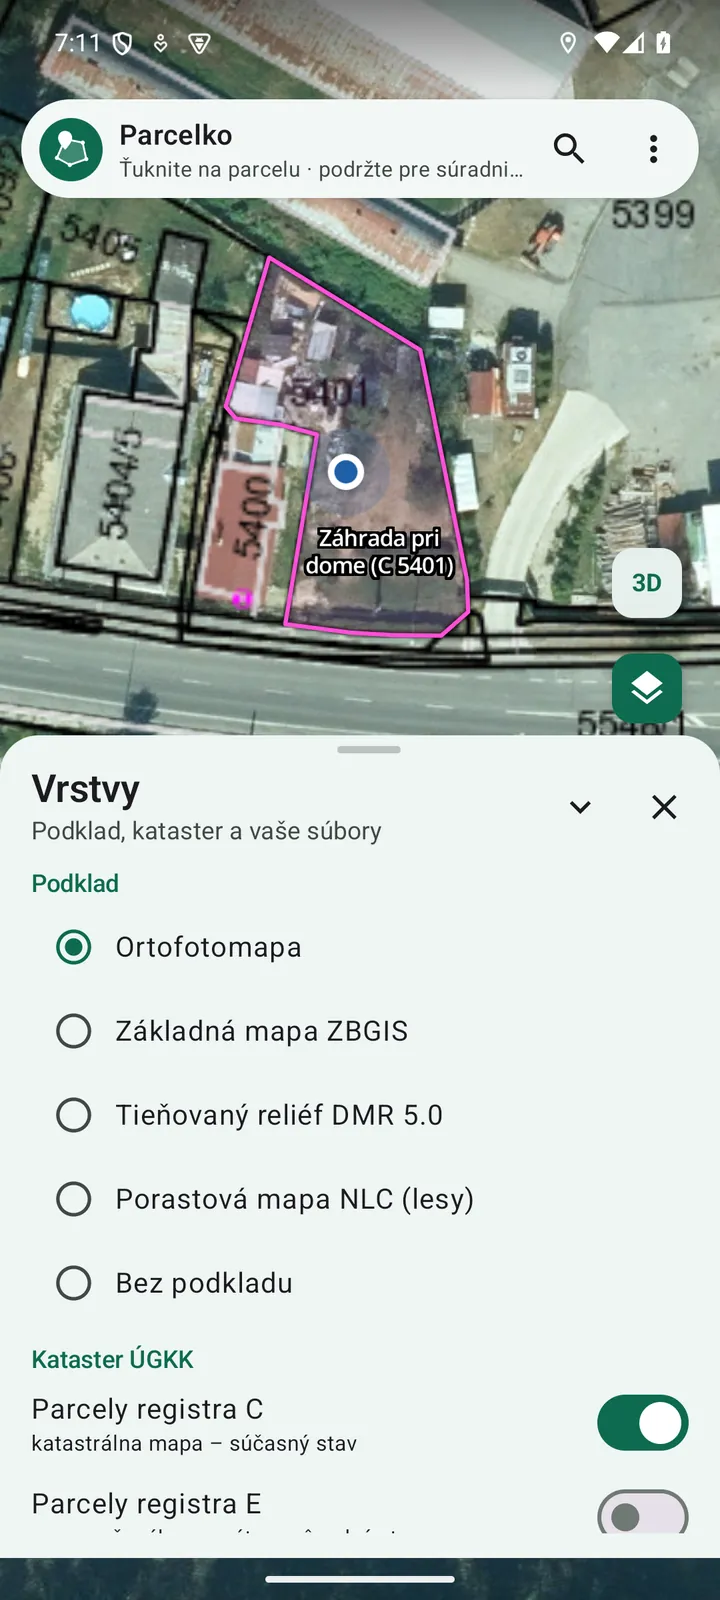
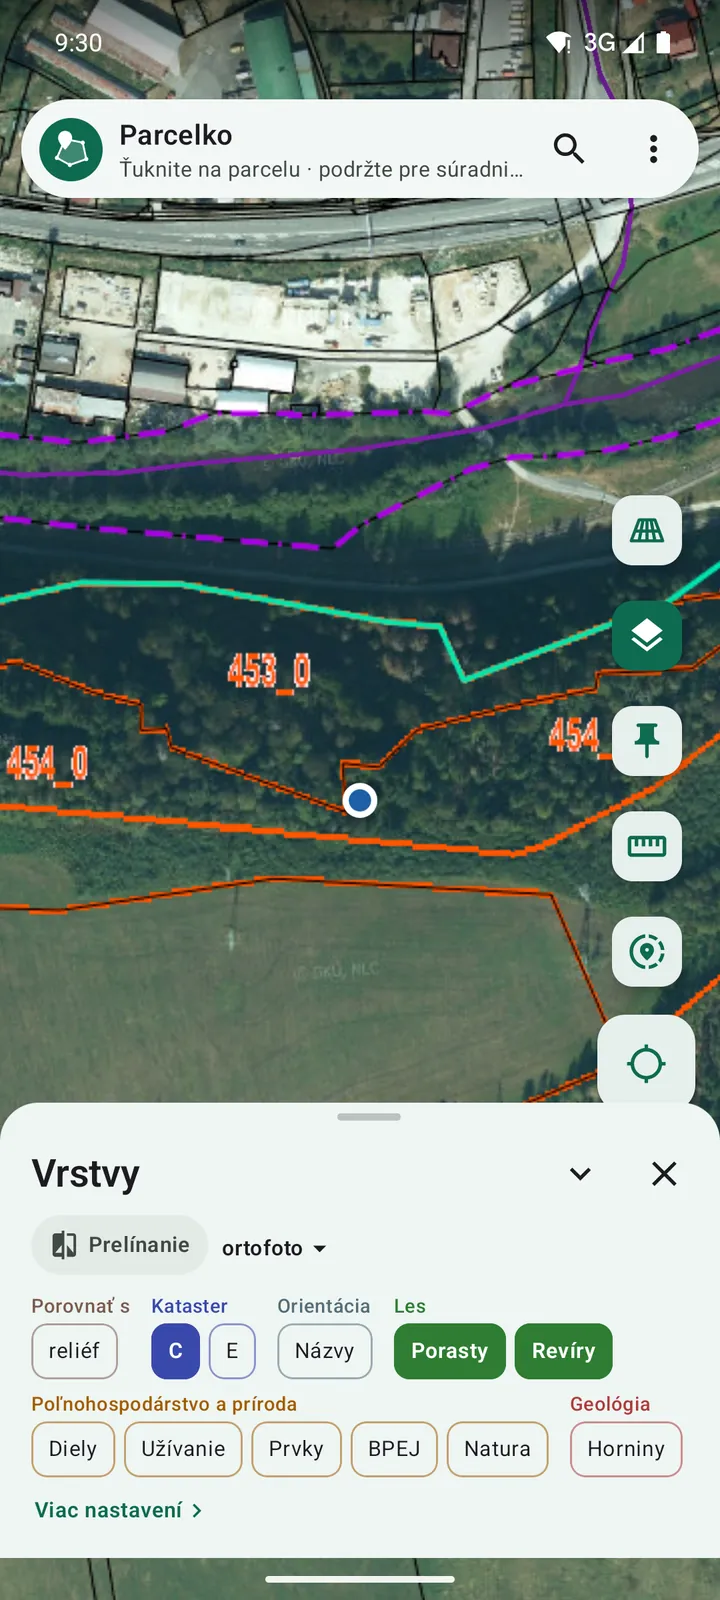
Parcelko 0.5.8 na webe: zdieľanie polohy, ovládanie mapy na jeden pohľad, prelínanie a mapy zo súborov, geológia; nové snímky; lišta v jednom riadku aj na menšom displeji

diff --git a/index.html b/index.html
@@ -76,13 +76,15 @@
    "url": "https://parcelko.github.io/",
    "inLanguage": "sk",
    "operatingSystem": "Android 8 a novší",
-   "softwareVersion": "0.5.7",
+   "softwareVersion": "0.5.8",
    "applicationCategory": "UtilitiesApplication",
    "applicationSubCategory": "Kataster nehnuteľností, mapy a meranie pozemkov",
    "downloadUrl": "https://github.com/Parcelko/parcelko.github.io/releases/latest/download/Parcelko.apk",
    "image": "https://parcelko.github.io/obrazky/nahlad-zdielanie.jpg",
    "screenshot": [
     "https://parcelko.github.io/obrazky/app-hladanie.webp",
+    "https://parcelko.github.io/obrazky/app-zdielanie.webp",
+    "https://parcelko.github.io/obrazky/app-ovladanie.webp",
     "https://parcelko.github.io/obrazky/app-rozmery.webp",
     "https://parcelko.github.io/obrazky/app-porastova.webp",
     "https://parcelko.github.io/obrazky/app-parcela-e-tmava.webp",
@@ -97,8 +99,11 @@
     "Vlastníci z listu vlastníctva (výpis z LV)",
     "Meranie plochy, vzdialenosti a meranie chôdzou s GPS",
     "Lesné porasty a porastová mapa NLC",
+    "Geologická mapa – horniny, podložie a radónové riziko v mieste ťuknutia",
+    "Prelínanie dvoch máp posuvníkom a porovnanie s treťou mapou",
     "Pešia navigácia k parcele a k bodu s upozornením pri odchode z pozemku",
     "Obchôdzka hranice po lomových bodoch",
+    "Zdieľanie polohy s ďalšími používateľmi Parcelka – šifrované, so stopou a navigáciou k nim",
     "Zadanie súradníc a zoznamu bodov z geometrického plánu, navigácia na ne",
     "Mapa pre klienta v mierke ako PDF alebo obrázok (A4, A3)",
     "Offline mapy bez signálu",
@@ -158,7 +163,7 @@
      "name": "Čo všetko zistím z jedného miesta na mape?",
      "acceptedAnswer": {
       "@type": "Answer",
-      "text": "Ťuknite kamkoľvek alebo sa postavte na miesto v teréne – Parcelko ukáže v jednom rade parcelu C aj E, a pri zapnutých vrstvách aj BPEJ, kultúrny diel, hranicu užívania, krajinný prvok, poľovný revír a lesný porast. Ťuknutím vyberiete, čo sa zvýrazní na mape; pri parcele máte rozmery, výmeru a vlastníkov, pri ostatných ich údaje."
+      "text": "Ťuknite kamkoľvek alebo sa postavte na miesto v teréne – Parcelko ukáže v jednom rade parcelu C aj E, a pri zapnutých vrstvách aj BPEJ, kultúrny diel, hranicu užívania, krajinný prvok, poľovný revír, lesný porast a horniny z geologickej mapy. Ťuknutím vyberiete, čo sa zvýrazní na mape; pri parcele máte rozmery, výmeru a vlastníkov, pri ostatných ich údaje."
      }
     },
     {
@@ -243,6 +248,14 @@
     },
     {
      "@type": "Question",
+     "name": "Môžem zdieľať polohu s kolegom, hájnikom alebo rodinou?",
+     "acceptedAnswer": {
+      "@type": "Answer",
+      "text": "Áno, s každým, kto má Parcelko. Pošlete mu pozvánku odkazom (WhatsApp, SMS…), on ju prijme a vy potvrdíte. Zdieľanie zapínate vy na zvolený čas (30 minút až 8 hodín), kedykoľvek ho pozastavíte alebo zastavíte. Druhý vás vidí na mape medzi parcelami a porastmi – so stopou, časom, presnosťou GPS a batériou – a vie k vám navigovať. Poloha je šifrovaná priamo v mobile, server ani my ju neprečítame. Obe strany potrebujú internet."
+     }
+    },
+    {
+     "@type": "Question",
      "name": "Aké súradnice a formáty vie aplikácia exportovať?",
      "acceptedAnswer": {
       "@type": "Answer",
@@ -286,7 +299,7 @@
      "name": "Ukladáte moje údaje?",
      "acceptedAnswer": {
       "@type": "Answer",
-      "text": "Údaje, ktoré v aplikácii vytvoríte – parcely, merania, fotky, výpisy z LV – sú len vo vašom mobile; aplikácia ich nikam neposiela. Evidujeme len údaje potrebné na licenciu (meno, kód zariadenia, platnosť) a pri službe Portfólio pozemkov na mieru podklady na jeho prípravu. Podrobnosti v zásadách ochrany osobných údajov."
+      "text": "Údaje, ktoré v aplikácii vytvoríte – parcely, merania, fotky, výpisy z LV – sú len vo vašom mobile; aplikácia ich nikam neposiela. Ak si zapnete zdieľanie polohy, vaša poloha ide zašifrovaná len tomu, s kým ste sa spárovali – server ani my ju neprečítame. Evidujeme len údaje potrebné na licenciu (meno, kód zariadenia, platnosť) a pri službe Portfólio pozemkov na mieru podklady na jeho prípravu. Podrobnosti v zásadách ochrany osobných údajov."
      }
     }
    ]
@@ -307,6 +320,7 @@
     <a href="#z-jedneho-miesta">Jedno miesto</a>
     <a href="#funkcie">Funkcie</a>
     <a href="#les">Les a revíry</a>
+    <a href="#zdielanie">Zdieľanie</a>
     <a href="#sluzba">Služba</a>
     <a href="#cennik">Cenník</a>
     <a href="#otazky">Otázky</a>
@@ -704,8 +718,8 @@
   <h2>Všetko, čo potrebujete o pozemku, v jednom mobile</h2>
   <p class="uvod">S Parcelkom máte svoje pozemky vždy pri sebe – presne podľa katastra: katastrálna mapa a parcely registra C aj E, hľadanie
     parcely podľa čísla a katastrálneho územia, vlastníci z listu vlastníctva (výpis z LV), rozmery a výmera pozemku, súradnice
-    v S-JTSK, lesné porasty a porastová mapa NLC a offline mapy bez signálu – pre vlastníkov pozemkov, dedičov, lesníkov,
-    urbariáty aj realitných maklérov.</p>
+    v S-JTSK, lesné porasty a porastová mapa NLC, geologická mapa, zdieľanie polohy s kolegom a offline mapy bez signálu – pre
+    vlastníkov pozemkov, dedičov, lesníkov, urbariáty aj realitných maklérov.</p>
   <h3 class="skupina odhal">Nájdite a prezrite si</h3>
   <div class="mriezka funkcie">
       <article class="funkcia odhal">
@@ -731,21 +745,25 @@
       <article class="funkcia odhal">
         <span class="ikona"><svg viewBox="0 0 24 24"><path d="M9 4 3 6v14l6-2 6 2 6-2V4l-6 2-6-2Z"/><path d="M9 4v14M15 6v14"/></svg></span>
         <h3>Mapy a podklady</h3>
-        <p>Ortofoto, katastrálna mapa, mapa určeného operátu, základná mapa ZBGIS, tieňovaný reliéf a porastová mapa – prepnete jedným ťuknutím.</p>
+        <p>Ortofoto, katastrálna mapa, mapa určeného operátu, základná mapa ZBGIS, tieňovaný reliéf a porastová mapa – prepnete jedným ťuknutím.
+        Dve mapy prelínate posuvníkom (napr. ortofoto a ZBGIS) a výsledok porovnáte s treťou mapou. Načítate aj vlastné mapy zo súborov
+        (SQLite pre Locus, MBTiles) – aj do offline bez signálu.</p>
       </article>
       <article class="funkcia odhal">
         <span class="ikona"><svg viewBox="0 0 24 24"><path d="M4 4h6M4 4v6M20 4h-6M20 4v6M4 20h6M4 20v-6M20 20h-6M20 20v-6"/></svg></span>
-        <h3>Celá obrazovka a naklonenie</h3>
-        <p>Mapa cez celý displej bez ponúk, naklonený pohľad a mapa sa otvorí tam, kde ste skončili.</p>
+        <h3>Ovládanie mapy na jeden pohľad</h3>
+        <p>Všetky vrstvy v prehľadných farebných skupinách – kataster, orientácia, les, poľnohospodárstvo a príroda, geológia a vaše
+        vrstvy – a hneď vidno, čo je zapnuté. Rovnaký výber pod tlačidlom Vrstvy aj na celej obrazovke: mapa cez celý displej,
+        ovládanie vysuniete potiahnutím zdola. Naklonený pohľad a mapa sa otvorí tam, kde ste skončili.</p>
       </article>
   </div>
-  <h3 class="skupina odhal">Pôda, poľovníctvo a príroda</h3>
+  <h3 class="skupina odhal">Pôda, geológia, poľovníctvo a príroda</h3>
   <div class="mriezka funkcie">
       <article class="funkcia odhal">
         <span class="ikona"><svg viewBox="0 0 24 24"><circle cx="12" cy="10" r="3"/><path d="M12 21s-7-5.5-7-11a7 7 0 0 1 14 0c0 5.5-7 11-7 11Z"/></svg></span>
         <h3>Všetko na mieste jedným ťuknutím</h3>
         <p>Na mieste ťuknutia sa v rade ukážu voľby ako pri parcelách C a E – BPEJ, kultúrny diel, hranica užívania, krajinný prvok,
-          poľovný revír. Ťuknutím vyberiete, čo sa zvýrazní na mape; ktoré sa ukážu, určujú zapnuté vrstvy.</p>
+          poľovný revír, horniny. Ťuknutím vyberiete, čo sa zvýrazní na mape; ktoré sa ukážu, určujú zapnuté vrstvy.</p>
       </article>
       <article class="funkcia odhal">
         <span class="ikona"><svg viewBox="0 0 24 24"><path d="M3 18h18M5 18c1-4 3-6 7-6s6 2 7 6"/><path d="M12 12V5m0 0-3 3m3-3 3 3"/></svg></span>
@@ -776,6 +794,13 @@
         <h3>Natura 2000</h3>
         <p>Územia európskeho významu a chránené vtáčie územia na mape – a po ťuknutí, či pozemok leží v niektorom z nich.</p>
       </article>
+      <article class="funkcia odhal">
+        <span class="ikona"><svg viewBox="0 0 24 24"><path d="M3 20h18L15 8l-3 4-2-2z"/><path d="M6 15h12M8.5 12.5h3"/></svg></span>
+        <h3>Geológia – horniny a podložie</h3>
+        <p>Geologická mapa Slovenska 1&nbsp;:&nbsp;50&nbsp;000 (ŠGÚDŠ) a po ťuknutí zloženie hornín, geologický útvar a vek,
+          inžinierskogeologický rajón (podložie) a radónové riziko v mieste – pri stavbe, studni či kúpe pozemku. Orientačne –
+          hranice hornín sedia na desiatky metrov.</p>
+      </article>
   </div>
   <h3 class="skupina odhal">Navigácia v teréne</h3>
   <div class="mriezka funkcie">
@@ -802,6 +827,12 @@
         <h3>Súradnice z geometrického plánu</h3>
         <p>Zadajte alebo vložte súradnice v S-JTSK, JTSK03, WGS84 či UTM – aj celý zoznam bodov z geometrického plánu či
         vytyčovacieho náčrtu. Parcelko ich ukáže na mape, dovedie vás k nim bod po bode a uloží ich ako vrstvu.</p>
+      </article>
+      <article class="funkcia odhal">
+        <span class="ikona"><svg viewBox="0 0 24 24"><circle cx="8" cy="8" r="2.5"/><circle cx="16" cy="15" r="2.5"/><path d="M8 13s-4-3.4-4-6.5a4 4 0 0 1 8 0C12 9.6 8 13 8 13Z"/><path d="M10.5 18.5c2 .8 3.5.5 5.5-1"/></svg></span>
+        <h3>Zdieľanie polohy</h3>
+        <p>S kolegom, hájnikom či rodinou si zdieľate polohu: druhého vidíte na mape medzi parcelami a porastmi, so stopou,
+        a navigujete k nemu. Zapínate na čas, pozastavíte jedným ťuknutím, šifrované. <a href="#zdielanie">Viac o zdieľaní</a></p>
       </article>
   </div>
   <h3 class="skupina odhal">Merajte a počítajte</h3>
@@ -942,6 +973,28 @@
   </div>
 </section>
 
+<!-- ============================================================ zdieľanie polohy -->
+<section class="sekcia jemna" id="zdielanie">
+  <div class="dve-stlpce">
+    <div class="odhal">
+      <p class="nadtitul">Novinka · Zdieľanie polohy</p>
+      <h2>Viete, kde je kolega – priamo medzi parcelami</h2>
+      <p>V lese, na poli či pri obchôdzke pozemkov si s ďalšími používateľmi Parcelka navzájom zdieľate polohu. Druhého vidíte
+        na tej istej mape ako parcely C a E, porasty a revíry – aj s trasou, ktorou prešiel – a jedným ťuknutím vás k nemu
+        Parcelko dovedie.</p>
+      <ul class="zoznam">
+        <li>pozvánku pošlete odkazom (WhatsApp, SMS, e-mail) – spárujete sa raz, prijatie potvrdíte vy</li>
+        <li>zdieľanie zapínate vy, na 30 minút až 8 hodín; kedykoľvek ho pozastavíte – vtedy sa nič neposiela – a zase zapnete</li>
+        <li>na mape meno, stopa (dá sa vypnúť), čas poslednej polohy, presnosť GPS a batéria druhého</li>
+        <li>navigácia k človeku – cieľ sa posúva s ním</li>
+        <li>šifrované priamo v mobile – polohu nevidí server ani my; bez poplatkov navyše</li>
+      </ul>
+      <p class="poznamka">Funguje, kým majú oba mobily internet; kto sa pozerá, má Parcelko otvorené.</p>
+    </div>
+    <figure class="mobil odhal naklon-vpravo" data-snimka="zdielanie"><img src="obrazky/app-zdielanie.webp" alt="Parcelko: zdieľaná poloha hájnika so stopou v lese a jeho karta" loading="lazy" width="720" height="1600"></figure>
+  </div>
+</section>
+
 <!-- ============================================================ pre koho -->
 <!-- ============================================================ v mobile -->
 <section class="sekcia jemna" id="v-mobile">
@@ -952,7 +1005,9 @@
     <button type="button" class="galeria-sipka vlavo" aria-label="Predchádzajúce">‹</button>
     <div class="galeria" tabindex="0" aria-label="Ukážky obrazoviek aplikácie – Brezno">
       <figure class="mobil odhal" data-snimka="hladanie"><img src="obrazky/app-hladanie.webp" alt="Hľadanie parcely podľa čísla" loading="lazy" width="720" height="1600"><figcaption>Nájdete parcelu podľa čísla – aj registra E</figcaption></figure>
-      <figure class="mobil odhal" data-snimka="cela-obrazovka"><img src="obrazky/app-cela-obrazovka.webp" alt="Celá obrazovka – len mapa a ikonka" loading="lazy" width="720" height="1600"><figcaption>Celá obrazovka – len mapa a zelená ikonka</figcaption></figure>
+      <figure class="mobil odhal" data-snimka="ovladanie"><img src="obrazky/app-ovladanie.webp" alt="Celá obrazovka s ovládaním mapy – skupiny vrstiev a prelínanie máp" loading="lazy" width="720" height="1600"><figcaption>Celá obrazovka – vrstvy na jeden pohľad a prelínanie máp</figcaption></figure>
+      <figure class="mobil odhal" data-snimka="zdielanie-galeria"><img src="obrazky/app-zdielanie.webp" alt="Zdieľanie polohy – kolega na mape so stopou" loading="lazy" width="720" height="1600"><figcaption>Zdieľanie polohy – kolega na mape</figcaption></figure>
+      <figure class="mobil odhal" data-snimka="geologia"><img src="obrazky/app-geologia.webp" alt="Geologická mapa a horniny v mieste ťuknutia" loading="lazy" width="720" height="1600"><figcaption>Geológia – horniny, podložie, radón</figcaption></figure>
       <figure class="mobil odhal" data-snimka="porastova"><img src="obrazky/app-porastova.webp" alt="Porastová mapa NLC s parcelami" loading="lazy" width="720" height="1600"><figcaption>Porastová mapa NLC s parcelami</figcaption></figure>
       <figure class="mobil odhal" data-snimka="rozmery"><img src="obrazky/app-rozmery.webp" alt="Rozmery parcely – dĺžky strán, výmera, obvod" loading="lazy" width="720" height="1600"><figcaption>Rozmery ako v geometrickom pláne</figcaption></figure>
       <figure class="mobil odhal" data-snimka="parcela-e-tmava"><img src="obrazky/app-parcela-e-tmava.webp" alt="Parcela E v tmavom režime" loading="lazy" width="720" height="1600"><figcaption>Parcela E – výmera a „na pozemku“</figcaption></figure>
@@ -963,7 +1018,7 @@
       <figure class="mobil odhal" data-snimka="suradnice"><img src="obrazky/app-suradnice.webp" alt="Súradnice bodu v S-JTSK, JTSK03, WGS84 a UTM" loading="lazy" width="720" height="1600"><figcaption>Súradnice bodu dlhým stlačením</figcaption></figure>
       <figure class="mobil odhal" data-snimka="parcela"><img src="obrazky/app-parcela.webp" alt="Parcela C pri dome" loading="lazy" width="720" height="1600"><figcaption>Parcela C pri dome – na ortofote</figcaption></figure>
       <figure class="mobil odhal" data-snimka="rozmery-tmava"><img src="obrazky/app-rozmery-tmava.webp" alt="Rozmery v tmavom režime" loading="lazy" width="720" height="1600"><figcaption>Tmavý režim – meranie</figcaption></figure>
-      <figure class="mobil odhal" data-snimka="vrstvy"><img src="obrazky/app-vrstvy.webp" alt="Moje parcely a podklady" loading="lazy" width="720" height="1600"><figcaption>Moje parcely z KMZ a podklady</figcaption></figure>
+      <figure class="mobil odhal" data-snimka="vrstvy"><img src="obrazky/app-vrstvy.webp" alt="Tlačidlo Vrstvy – skupiny vrstiev na jeden pohľad" loading="lazy" width="720" height="1600"><figcaption>Vrstvy – všetko na jeden pohľad</figcaption></figure>
       <figure class="mobil odhal" data-snimka="les-e"><img src="obrazky/app-les-e.webp" alt="Parcela E na okraji lesa" loading="lazy" width="720" height="1600"><figcaption>Parcely C a E pri lese</figcaption></figure>
       <figure class="mobil odhal" data-snimka="offline"><img src="obrazky/app-offline.webp" alt="Offline mapy" loading="lazy" width="720" height="1600"><figcaption>Offline mapy bez signálu</figcaption></figure>
       <figure class="mobil odhal" data-snimka="export"><img src="obrazky/app-export.webp" alt="Export súradníc" loading="lazy" width="720" height="1600"><figcaption>Export – S-JTSK, KMZ, DXF…</figcaption></figure>
@@ -1116,7 +1171,7 @@
     <details><summary>Vidím v Parcelku poľovný revír a jeho užívateľa?</summary>
       <p>Áno. Po zapnutí vrstvy Poľovné revíry vidíte na mape hranice a názvy revírov, zverníc a nepoľovných plôch. Po ťuknutí Parcelko ukáže užívateľa revíru (poľovnícke združenie), obdobie užívania, rozhodnutie o uznaní, okres a poľovnú oblasť; vybraný revír sa vyplní žltou. Hranice máte aj v teréne bez signálu, ak si územie stiahnete.</p></details>
     <details><summary>Čo všetko zistím z jedného miesta na mape?</summary>
-      <p>Ťuknite kamkoľvek alebo sa postavte na miesto v teréne – Parcelko ukáže v jednom rade parcelu C aj E, a pri zapnutých vrstvách aj BPEJ, kultúrny diel, hranicu užívania, krajinný prvok, poľovný revír a lesný porast. Ťuknutím vyberiete, čo sa zvýrazní na mape; pri parcele máte rozmery, výmeru a vlastníkov, pri ostatných ich údaje.</p></details>
+      <p>Ťuknite kamkoľvek alebo sa postavte na miesto v teréne – Parcelko ukáže v jednom rade parcelu C aj E, a pri zapnutých vrstvách aj BPEJ, kultúrny diel, hranicu užívania, krajinný prvok, poľovný revír, lesný porast a horniny z geologickej mapy. Ťuknutím vyberiete, čo sa zvýrazní na mape; pri parcele máte rozmery, výmeru a vlastníkov, pri ostatných ich údaje.</p></details>
     <details><summary>Pripravíte mi prehľad všetkých mojich pozemkov?</summary>
       <p>Áno – službou Portfólio pozemkov na mieru. Podľa vašich požiadaviek vyhľadáme všetky vaše parcely vo vybraných katastrálnych územiach (register C aj E), farebne ich rozlíšime podľa druhu pozemku alebo vašich kritérií a pri každej uvedieme váš podiel zlomkom aj v percentách, výmeru, ktorá naň pripadá, a spoluvlastníkov. Portfólio otvoríte v Parcelku v mobile, súhrn dostanete aj ako tabuľku (Excel, PDF). Pri licencii na mesiac, polrok alebo rok je príprava portfólia v cene licencie.</p></details>
     <details><summary>Ako nájsť parcelu podľa čísla?</summary>
@@ -1137,6 +1192,11 @@
       <p>Áno. V ponuke zvoľte Zadať súradnice a zadajte alebo vložte súradnice v S-JTSK, JTSK03, WGS84 či UTM – aj celý zoznam bodov z geometrického plánu (číslo bodu, Y a X na riadok). Parcelko body ukáže na mape, navigáciou vás k nim dovedie bod po bode a uloží ich ako vrstvu. Poloha je z GPS mobilu (spravidla 2 – 10 m), takže ide o orientačné hľadanie, nie o vytýčenie – to robí geodet.</p></details>
     <details><summary>Upozorní ma aplikácia, keď vyjdem zo svojho pozemku?</summary>
       <p>Áno. Počas navigácie k parcele Parcelko ukáže, kedy stojíte na pozemku, a keď z neho vyjdete, mobil zavibruje a aplikácia ukáže, kam sa vrátiť – napríklad pri ťažbe dreva či kosení. Funguje, kým máte Parcelko otvorené na obrazovke (počas navigácie displej nezhasne).</p></details>
+    <details><summary>Môžem zdieľať polohu s kolegom, hájnikom alebo rodinou?</summary>
+      <p>Áno, s každým, kto má Parcelko. Pošlete mu pozvánku odkazom (WhatsApp, SMS…), on ju prijme a vy potvrdíte. Zdieľanie
+        zapínate vy na zvolený čas (30 minút až 8 hodín), kedykoľvek ho pozastavíte alebo zastavíte. Druhý vás vidí na mape medzi
+        parcelami a porastmi – so stopou, časom, presnosťou GPS a batériou – a vie k vám navigovať. Poloha je šifrovaná priamo
+        v mobile, server ani my ju neprečítame. Obe strany potrebujú internet.</p></details>
     <details><summary>Aké súradnice a formáty vie aplikácia exportovať?</summary>
       <p>Formáty KMZ a KML (Google Earth), GPX (GPS prístroje) a GeoJSON (GIS) – tie sú vždy vo WGS84, ako to vyžaduje formát – a DXF (CAD),
         CSV (Excel) a TXT so súradnicami v S-JTSK (JTSK), JTSK03, WGS84 alebo UTM 34N.</p></details>
@@ -1156,7 +1216,8 @@
         Kolega potrebuje vlastnú licenciu.</p></details>
     <details><summary>Ukladáte moje údaje?</summary>
       <p>Údaje, ktoré v aplikácii vytvoríte – parcely, merania, fotky, výpisy z LV – sú len vo vašom mobile; aplikácia ich nikam
-        neposiela. Evidujeme len údaje potrebné na licenciu (meno, kód zariadenia, platnosť) a pri službe Portfólio pozemkov na mieru
+        neposiela. Ak si zapnete zdieľanie polohy, vaša poloha ide zašifrovaná len tomu, s kým ste sa spárovali – server ani my ju
+        neprečítame. Evidujeme len údaje potrebné na licenciu (meno, kód zariadenia, platnosť) a pri službe Portfólio pozemkov na mieru
         podklady na jeho prípravu. Podrobnosti v <a href="sukromie.html">zásadách ochrany osobných údajov</a>.</p></details>
   </div>
 </section>

diff --git a/styl.css b/styl.css
@@ -72,6 +72,19 @@ p { margin: 0 0 1em; }
   .lista .napiste + .tlacidlo { padding: 8px 14px; }
 }
 @media (max-width: 374.98px) { #lista .znacka span { display: none; } }
+/* stredné šírky (počítač s menším oknom, tablet): ponuka v jednom riadku – menšie medzery, „Napíšte nám“ len obálka */
+.lista nav a { white-space: nowrap; }
+@media (min-width: 861px) and (max-width: 1400px) {
+  .lista { gap: 16px; }
+  .lista nav { gap: 16px; }
+  .lista .napiste span { display: none; }
+  .lista .tlacidlo.napiste { padding: 8px 12px; }
+}
+@media (min-width: 861px) and (max-width: 1120px) {
+  .lista nav { gap: 12px; }
+  .lista nav a { font-size: .88rem; }
+}
+@media (min-width: 861px) and (max-width: 980px) { #lista .znacka span { display: none; } }
 
 /* ------------------------------------------------------------ tlačidlá */
 .tlacidlo {

diff --git a/sukromie.html b/sukromie.html
@@ -13,7 +13,7 @@
 <main>
 <h1>Ochrana osobných údajov</h1>
 <p class="tlmeny">Aplikácia Parcelko pre Android · prevádzkovateľ: LUBERIT s.&nbsp;r.&nbsp;o., Pongrácovce 59, 053 05 Pongrácovce · IČO 56 274 483 · DIČ 2122267917</p>
-<p class="tlmeny">Platné od 3. 11. 2026</p>
+<p class="tlmeny">Platné od 7. 11. 2026</p>
 
 <h2>Údaje v mobile</h2>
 <p>Všetko, čo v aplikácii vytvoríte alebo načítate – vrstvy, merania, body s fotkami, výpisy z listov vlastníctva, offline mapy –
